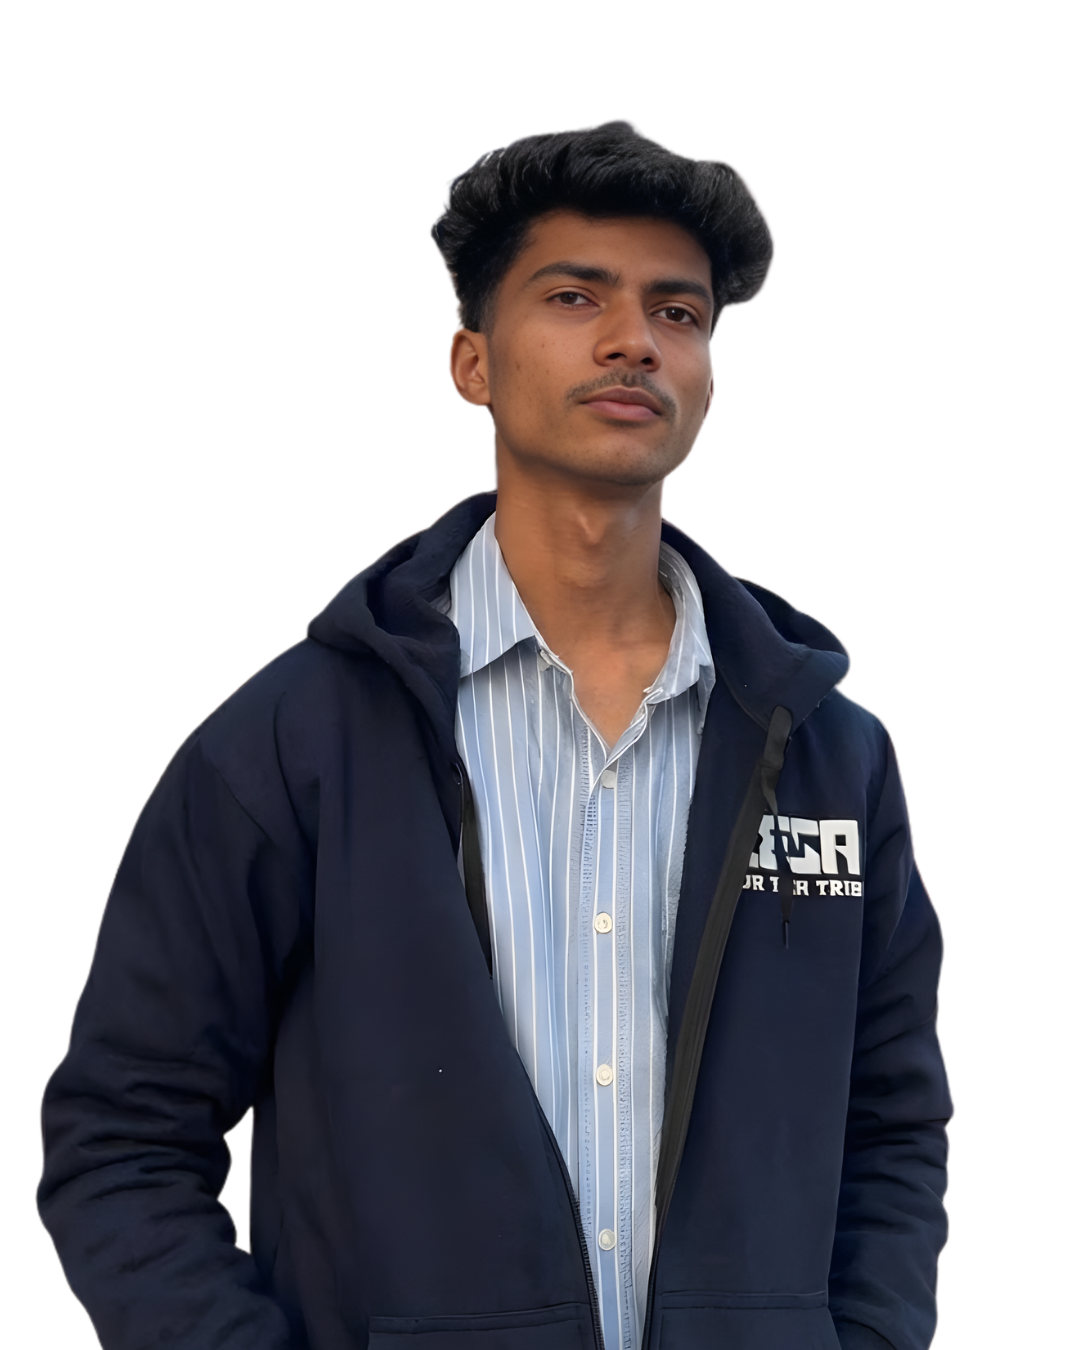
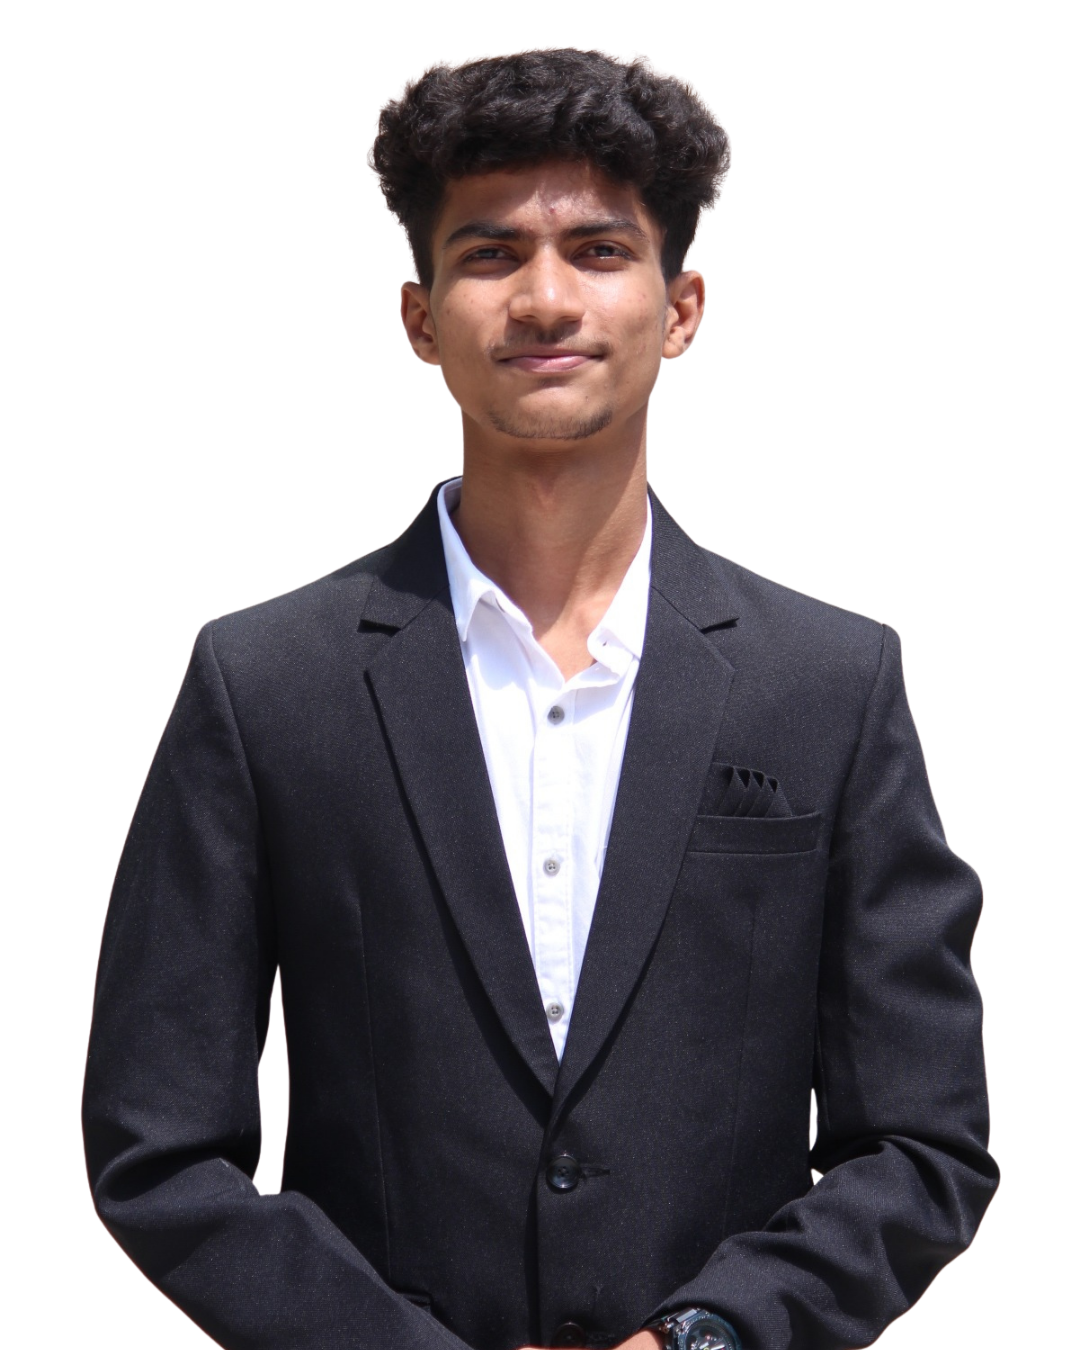
edited the team photos

diff --git a/data/teamData.js b/data/teamData.js
@@ -35,7 +35,7 @@ export const leadership = [
     role: 'Vice Chairperson',
     image: {
       default: '/members/swaroop.png',
-      hover: '/members/swaroop-hover.png',
+      hover: '/members/swaroop.png',
     },
     links: {
       linkedin: 'www.linkedin.com/in/swaroop-naik-5bb172233',
@@ -50,8 +50,8 @@ export const leadership = [
       hover: '/members/diksha-hover.png',
     },
     links: {
-      linkedin: 'https://linkedin.com/in/diksha-parulekar',
-      github: 'https://github.com/diksha-parulekar',
+      linkedin: 'https://www.linkedin.com/in/diksha-parulekar-a949282a2?utm_source=share&utm_campaign=share_via&utm_content=profile&utm_medium=android_app',
+      github: 'https://github.com/dikshaparulekar',
     },
   },
 ]
@@ -99,7 +99,7 @@ export const domains = [
         role: 'Event Head',
         image: {
           default: '/members/ishika.png',
-          hover: '/members/ishika-hover.png',
+          hover: '/members/ishika.png',
         },
         links: {
           linkedin: 'https://www.linkedin.com/in/ishika-bhute-a72b1a32b?utm_source=share&utm_campaign=share_via&utm_content=profile&utm_medium=android_app',
@@ -113,7 +113,7 @@ export const domains = [
         role: 'Event Co-head',
         image: {
           default: '/members/soumitra.png',
-          hover: '/members/soumitra-hover.png',
+          hover: '/members/soumitra.png',
         },
         links: {
           linkedin: 'www.linkedin.com/in/soumitra-rajguru',
@@ -174,8 +174,8 @@ export const domains = [
         name: 'Tejas Dhanvi',
         role: 'Publicity Co-head',
         image: {
-          default: '/members/tejas.png',
-          hover: '/members/tejas-hover.png',
+          default: '',
+          hover: '',
         },
         links: {
           linkedin: 'https://linkedin.com/in/tejas-dhanvi',
